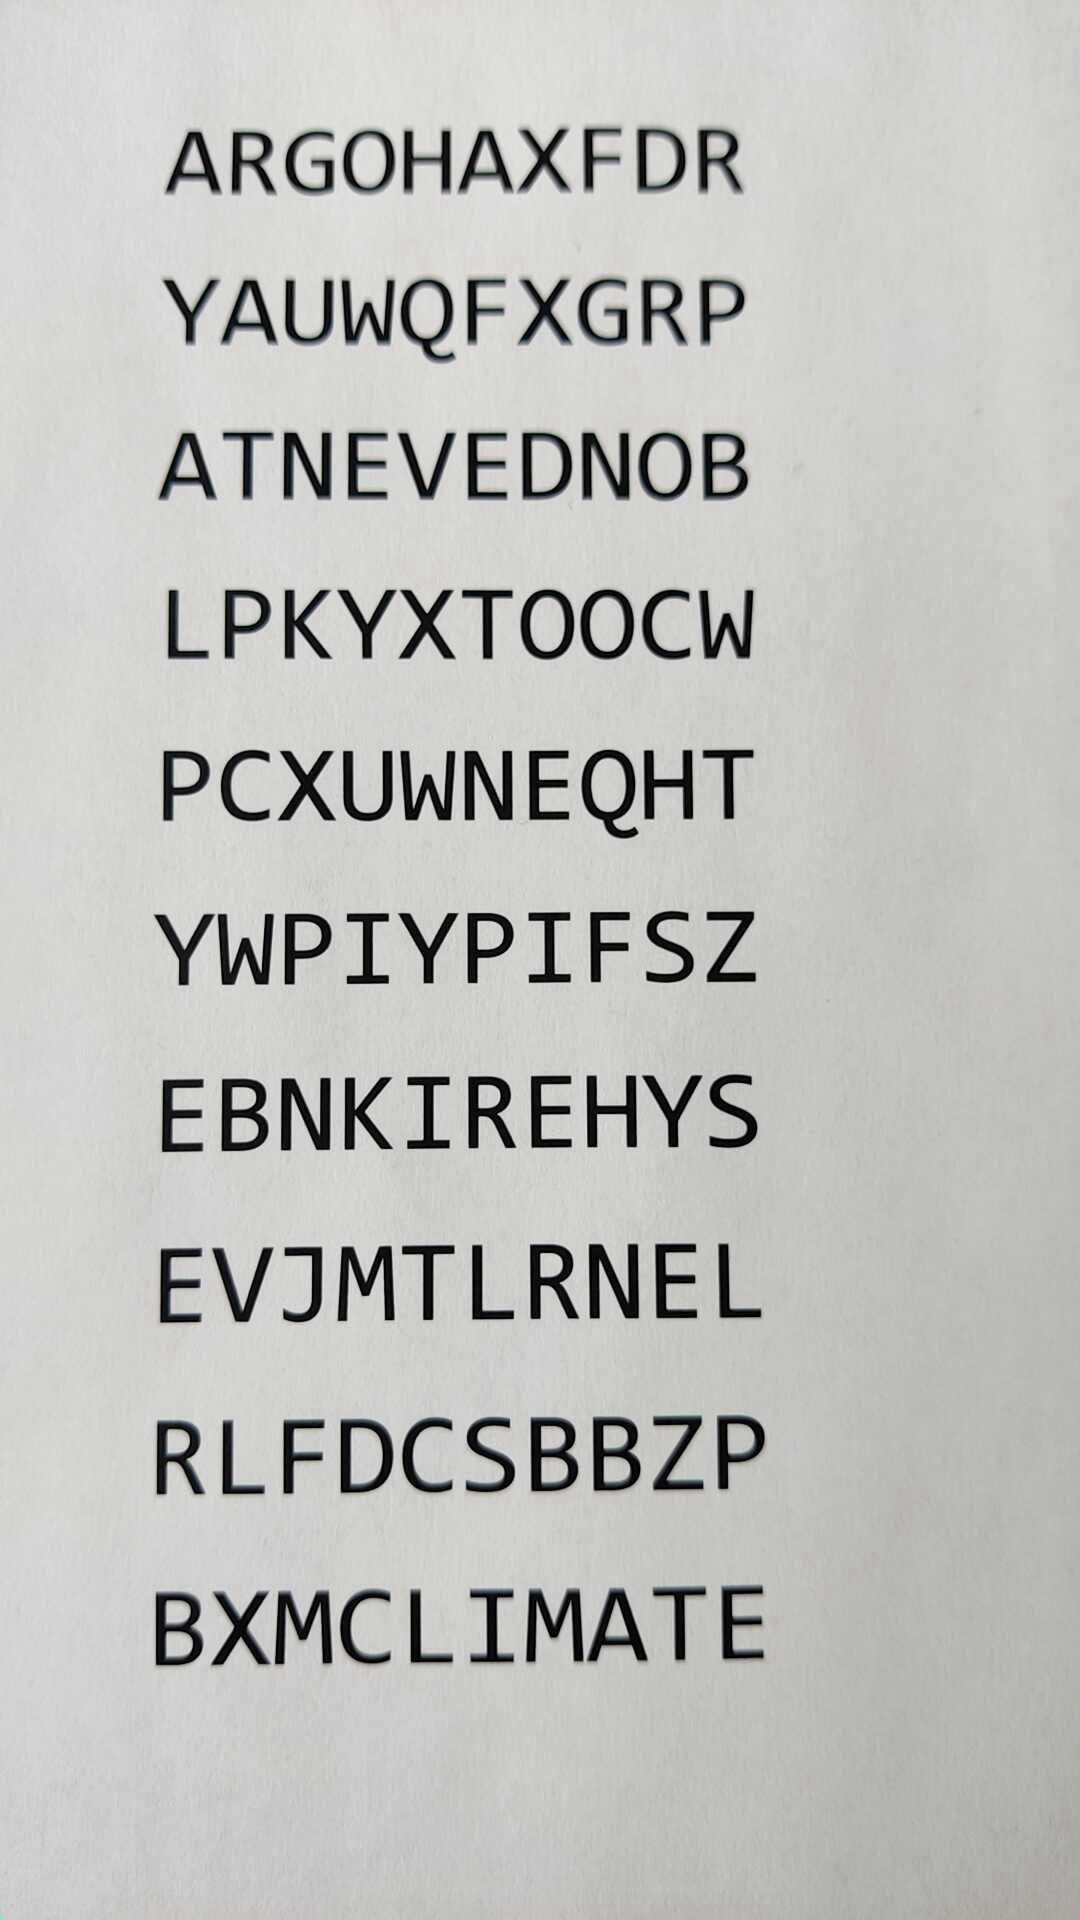
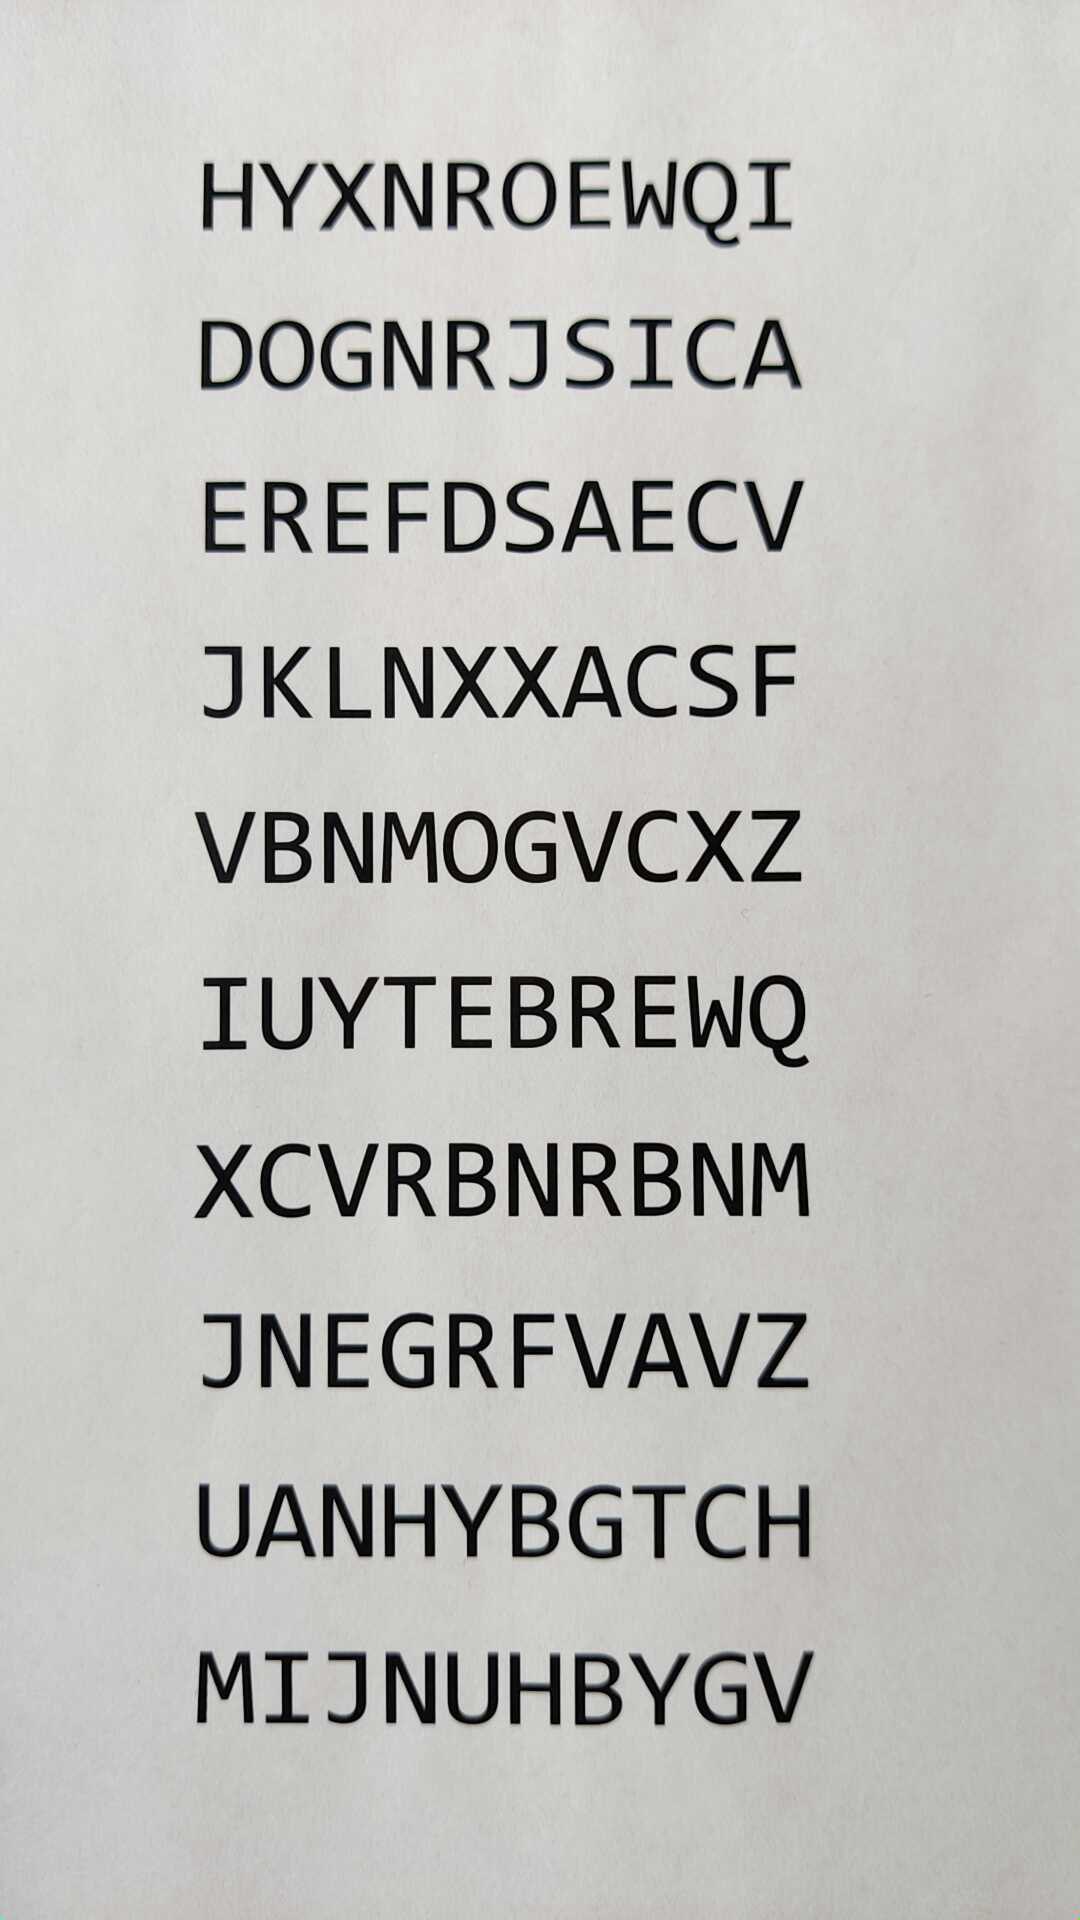
web page updated!

Changed region(s): [[0.1222, 0.0625, 0.7639, 0.9062]]

diff --git a/response/html/index.html b/response/html/index.html
@@ -5,7 +5,7 @@
     <meta http-equiv="X-UA-Compatible" content="IE=edge">
     <meta name="viewport" content="width=device-width, initial-scale=1">
     <!-- The above 3 meta tags *must* come first in the head; any other head content must come *after* these tags -->
-    <title>climate</title>
+    <title>iceage</title>
 
     <!-- Bootstrap -->
     <link href="css/bootstrap.min.css" rel="stylesheet">
@@ -18,11 +18,11 @@
     <![endif]-->
   </head>
   <body>
-    <h1>Climate</h1>
-    <div style="float:left; padding-right: 10px;"><img style="width:500px;" src=../../downloaded_images/climate.jpg alt="test"></div>
+    <h1>Iceage</h1>
+    <div style="float:left; padding-right: 10px;"><img style="width:500px;" src=../../downloaded_images/iceage.jpg alt="test"></div>
     </br>
-    <p style="width:50%;">Climate is the long-term weather pattern in an area, typically averaged over 30 years. More rigorously, it is the mean and variability of meteorological variables over a time spanning from months to millions of years. Some of the meteorological variables that are commonly measured are temperature, humidity, atmospheric pressure, wind, and precipitation. In a broader sense, climate is the state of the components of the climate system, including the ocean, land, and ice on Earth. The climate of a location is affected by its latitude/longitude, terrain, altitude, and nearby water bodies and their currents</p>
-    <div style="clear:both; padding-top: 50px;"><iframe width="560" height="315" src="https://www.youtube.com/embed/LxgMdjyw8uw" title="YouTube video player" frameborder="0" allow="accelerometer; autoplay; clipboard-write; encrypted-media; gyroscope; picture-in-picture" allowfullscreen></iframe></div>
+    <p style="width:50%;">An ice age is a long period of reduction in the temperature of Earth's surface and atmosphere, resulting in the presence or expansion of continental and polar ice sheets and alpine glaciers. Earth's climate alternates between ice ages and greenhouse periods, during which there are no glaciers on the planet. Earth is currently in the Quaternary glaciation</p>
+    <div style="clear:both; padding-top: 50px;"><iframe width="560" height="315" src="https://www.youtube.com/embed/I4EZCy14te0" title="YouTube video player" frameborder="0" allow="accelerometer; autoplay; clipboard-write; encrypted-media; gyroscope; picture-in-picture" allowfullscreen></iframe></div>
     <!-- jQuery (necessary for Bootstrap's JavaScript plugins) -->
     <script src="https://ajax.googleapis.com/ajax/libs/jquery/1.12.4/jquery.min.js"></script>
     <!-- Include all compiled plugins (below), or include individual files as needed -->
